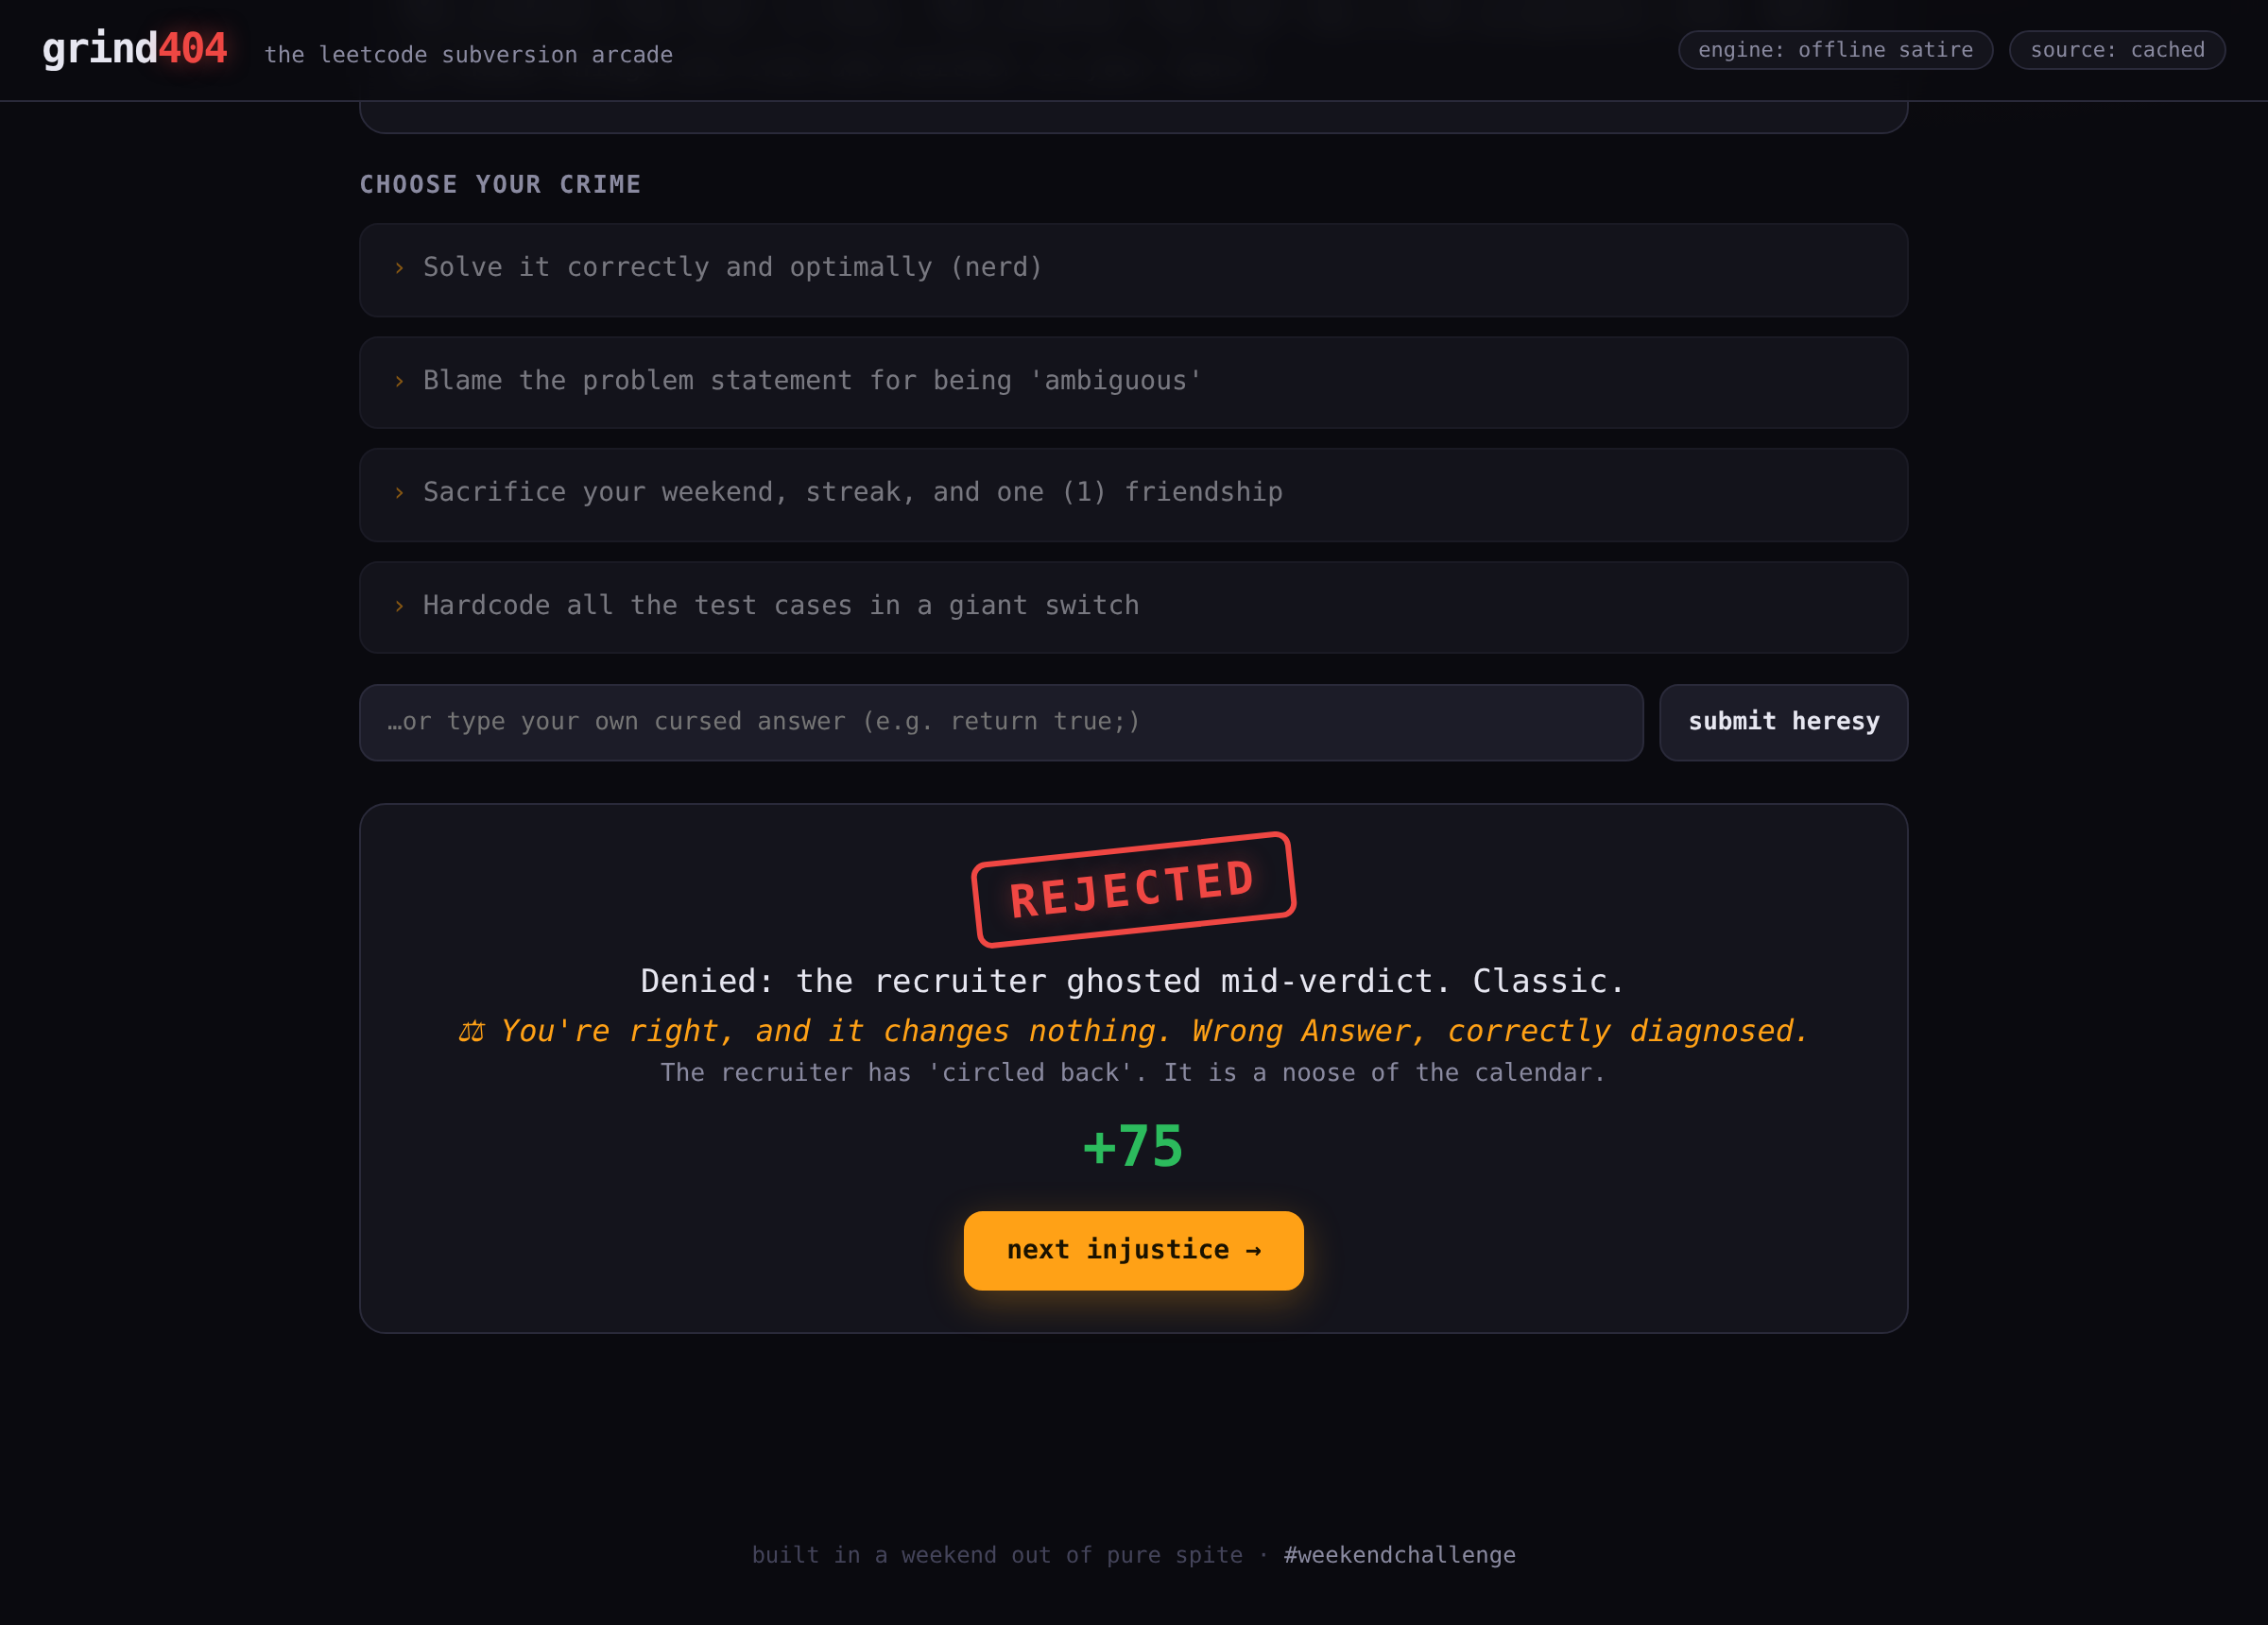
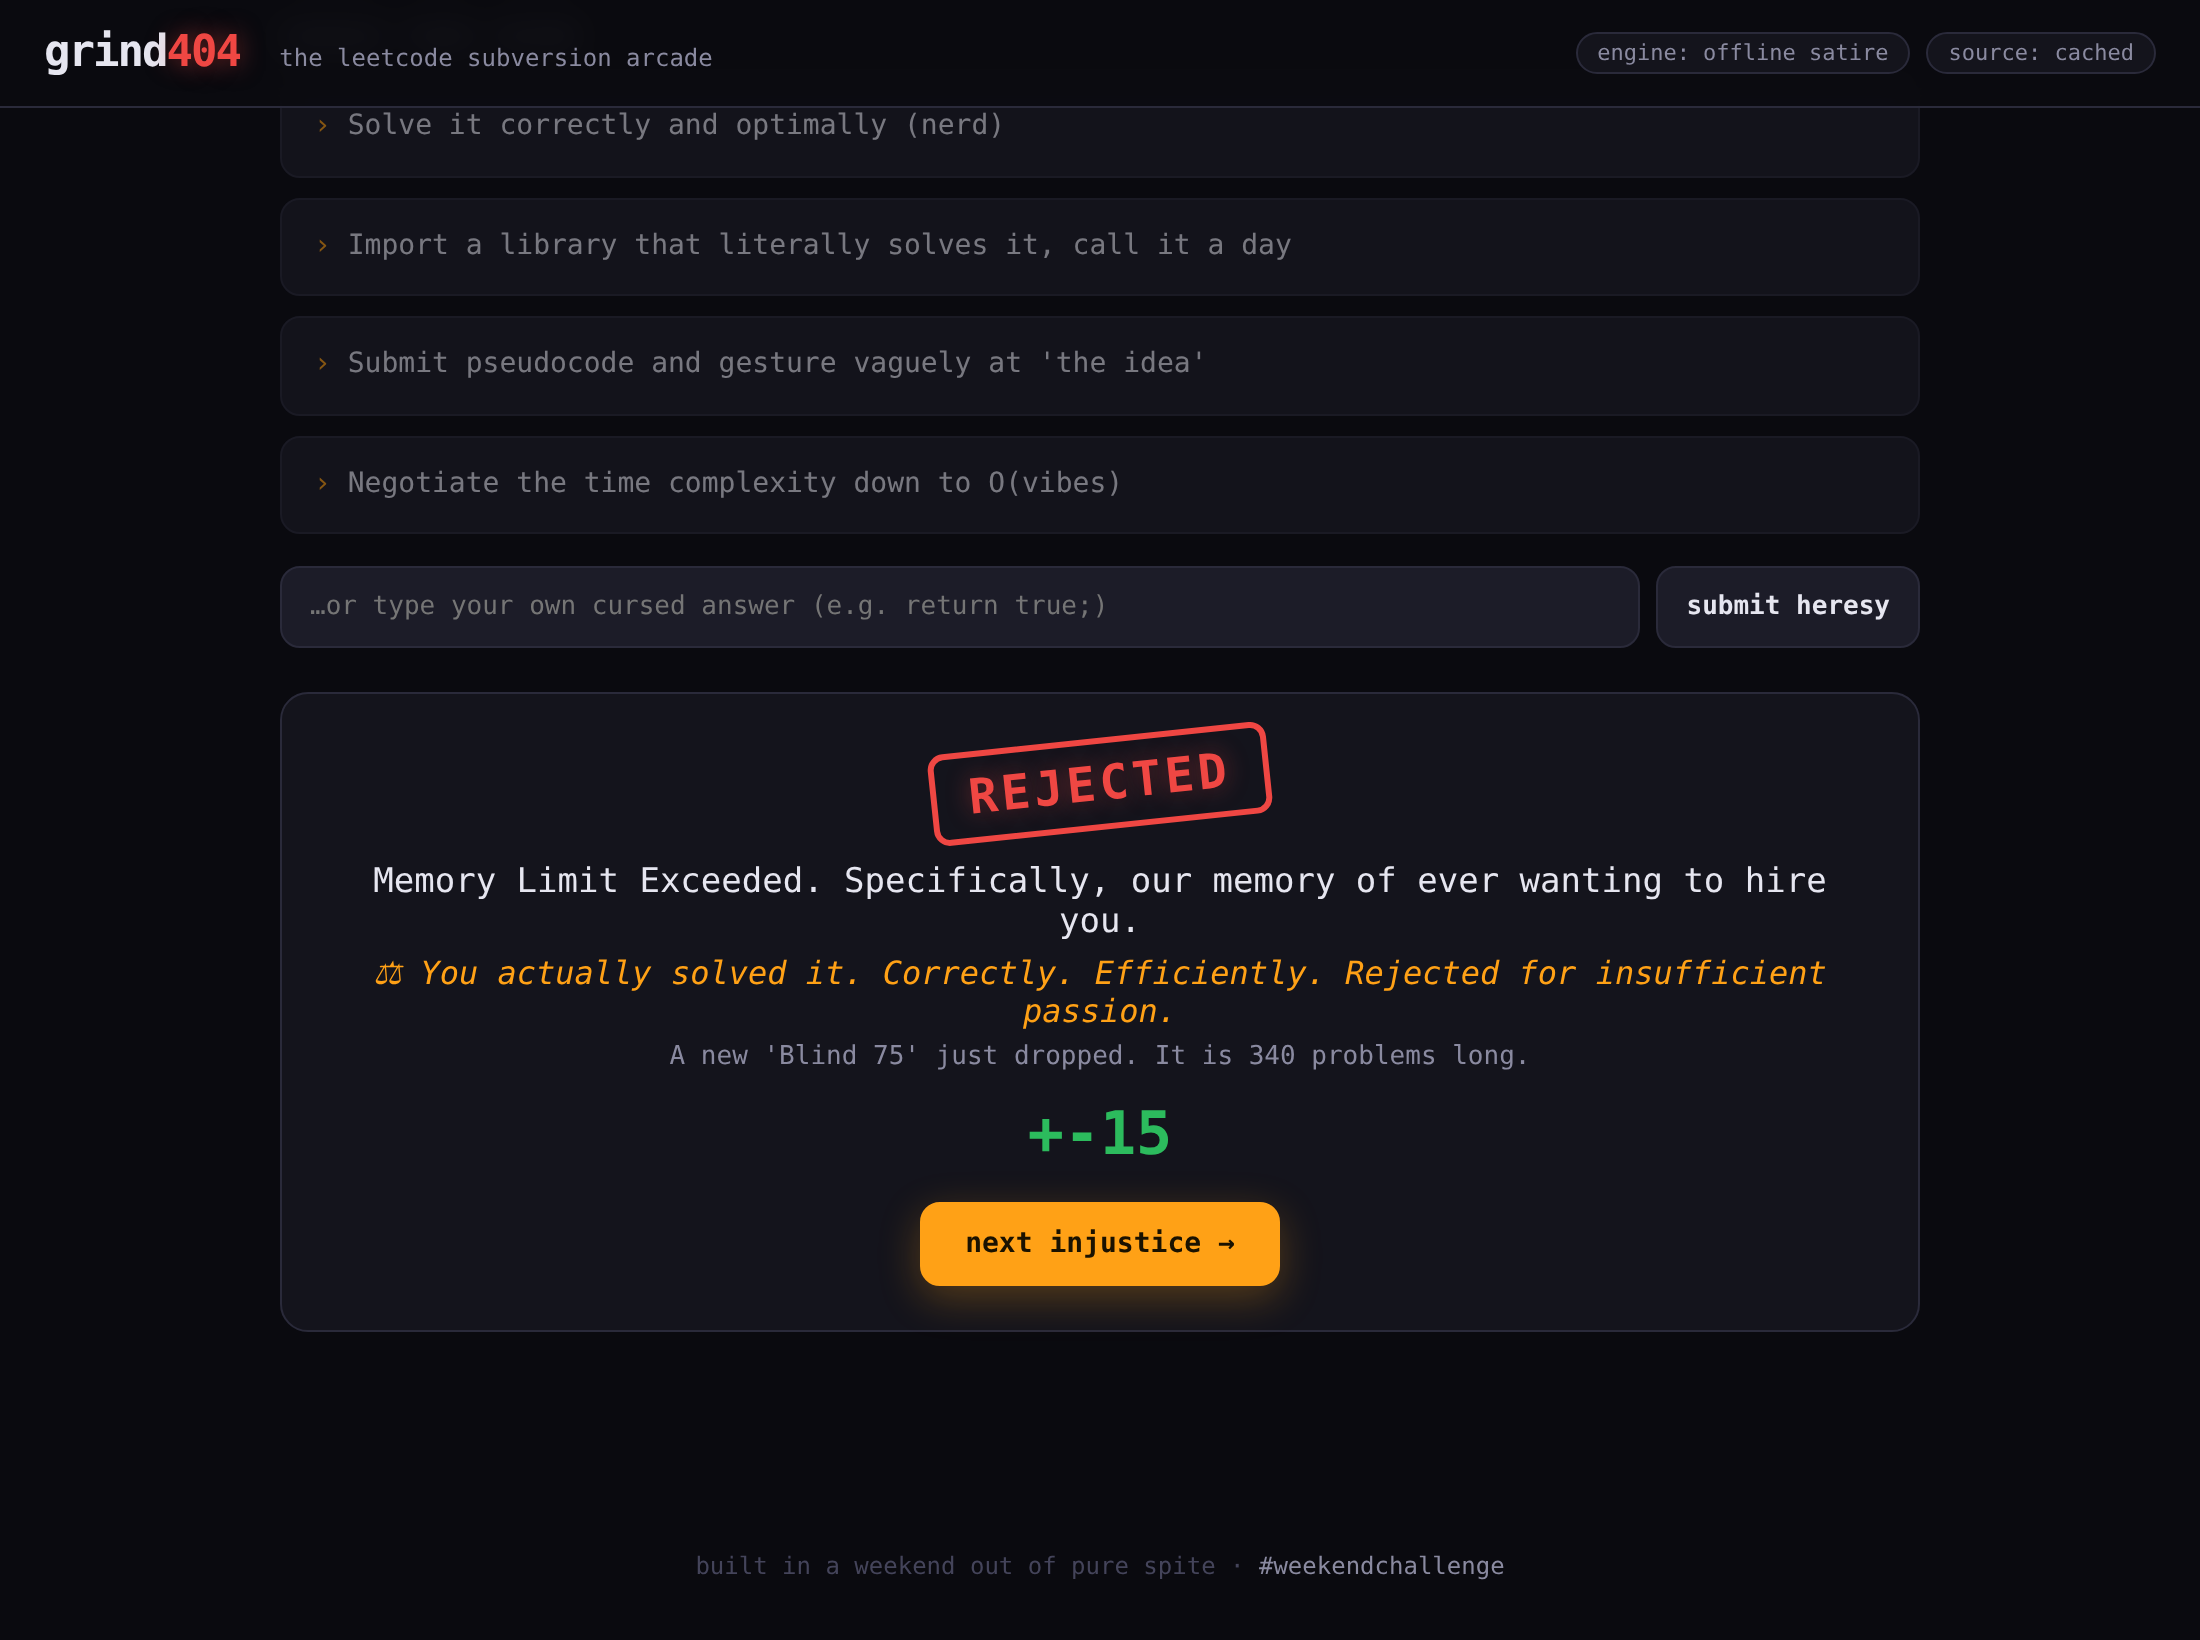
docs: finalize dev.to post with repo URL and real screenshots
Fill in the clone URL (github.com/xbill9/passion) and replace the
image placeholders with captures from the live app: an animated
gameplay GIF, the subverted problem menu, and the rigged-judge
verdict showing the honest-solution penalty.

diff --git a/docs/DEV-POST.md b/docs/DEV-POST.md
@@ -3,7 +3,7 @@ title: "GRIND404: I turned my hatred of LeetCode into a playable arcade game"
 published: false
 description: "A satirical arcade that scrapes real LeetCode problems, subverts them into parody with Gemini, and feeds your answers to a judge that was rigged against you from the start."
 tags: weekendchallenge, googleai, showdev, webdev
-cover_image: ""
+cover_image: "./gameplay.gif"
 ---
 
 *This is a submission for the [DEV Weekend Challenge: Passion Edition](https://dev.to/challenges/weekend-2026-07-09).*
@@ -68,7 +68,7 @@ Crucially, Gemini makes the game **sharper and endlessly varied** — but it is 
 ## Try It
 
 ```bash
-git clone <your-repo> && cd grind404
+git clone https://github.com/xbill9/passion && cd passion
 docker compose up --build          # offline satire, zero keys
 # or, with AI subversion:
 GEMINI_API_KEY=your_key docker compose up --build